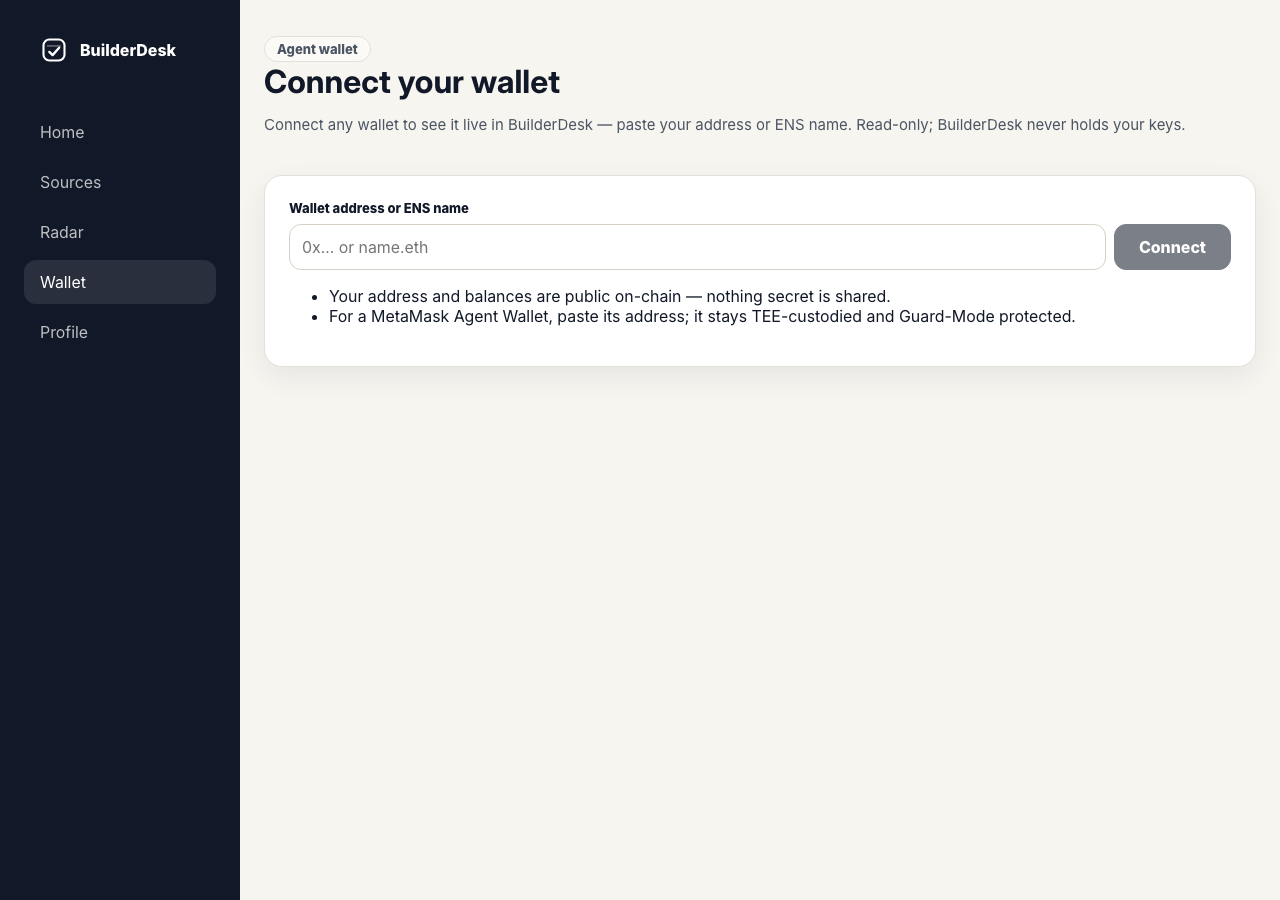
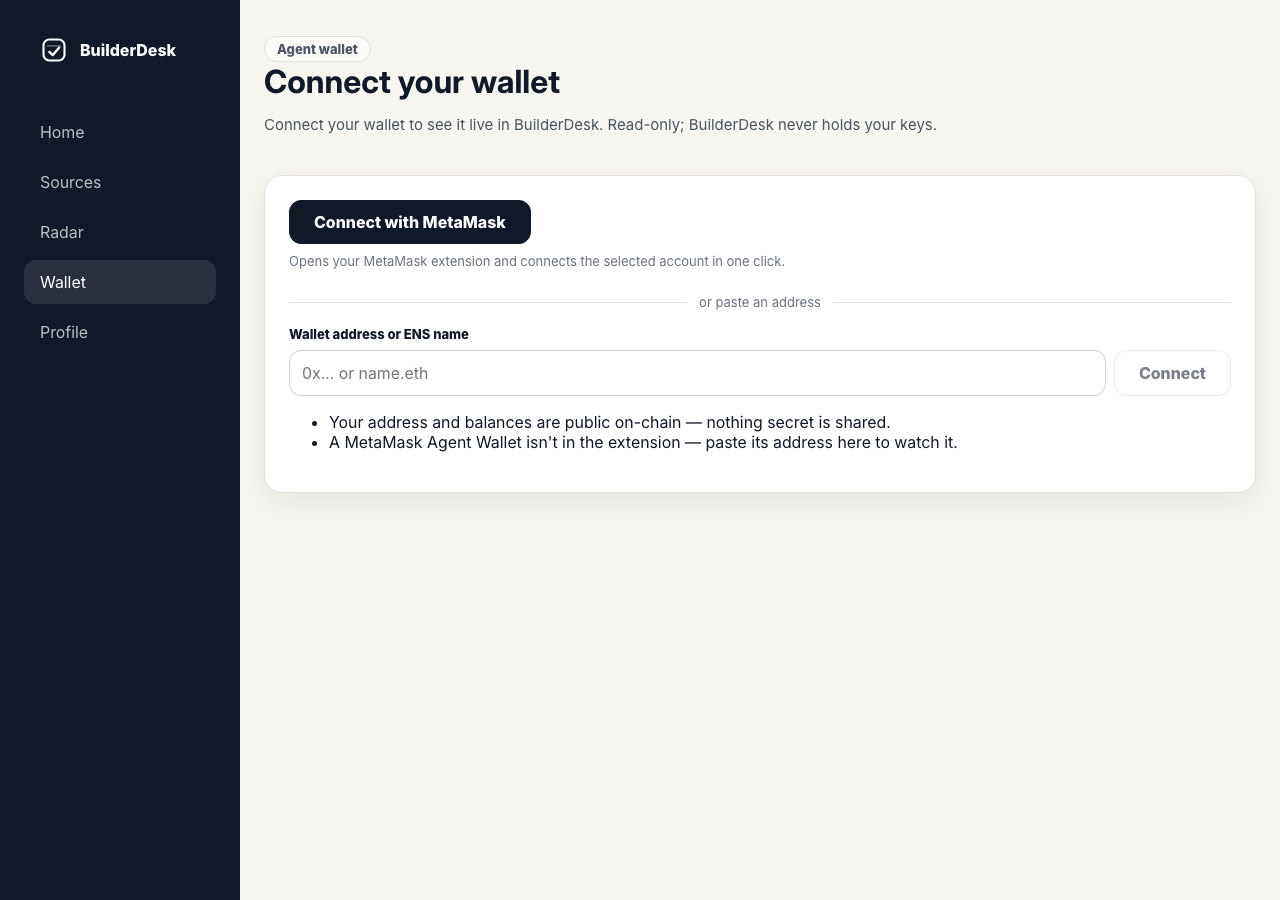
Add 'Connect with MetaMask' login to the wallet connect flow
connectInjectedWallet() opens the injected MetaMask provider
(eth_requestAccounts) and returns the selected account; the connect
screen leads with a one-click "Connect with MetaMask" button and keeps
address/ENS paste as the fallback (mobile / no-extension / watching an
agent wallet that isn't in the extension). Connected wallet persists in
local state, so it's remembered across sessions -- no re-pasting.

Verified: build, lint, test; connecting the funded agent wallet shows
0.05 ETH live on Sepolia in the dashboard.

diff --git a/src/screens/Wallet.tsx b/src/screens/Wallet.tsx
@@ -1,5 +1,5 @@
 import { useEffect, useState } from 'react'
-import { AGENT_WALLET_INFO, defaultWalletAddress, fetchWalletOverview, formatEth } from '../domain/wallet'
+import { AGENT_WALLET_INFO, connectInjectedWallet, defaultWalletAddress, fetchWalletOverview, formatEth } from '../domain/wallet'
 import type { WalletOverview } from '../domain/wallet'
 import { resolveEns } from '../domain/ens'
 import { useAppState } from '../store'
@@ -18,7 +18,21 @@ function ConnectWallet({ setState }: { setState: Store['setState'] }) {
   const [connecting, setConnecting] = useState(false)
   const [error, setError] = useState<string | null>(null)
 
-  async function connect() {
+  async function connectMetaMask() {
+    setConnecting(true)
+    setError(null)
+    const result = await connectInjectedWallet()
+    if (result.error || !result.address) {
+      setError(result.error ?? 'Could not connect.')
+      setConnecting(false)
+      return
+    }
+    const ens = await resolveEns(result.address)
+    setConnecting(false)
+    setState((current) => ({ ...current, wallet: { address: result.address as string, ensName: ens.ensName } }))
+  }
+
+  async function connectByInput() {
     setConnecting(true)
     setError(null)
     const result = await resolveEns(input)
@@ -27,21 +41,25 @@ function ConnectWallet({ setState }: { setState: Store['setState'] }) {
       setError(result.note)
       return
     }
-    const connected = { address: result.address, ensName: result.ensName }
-    setState((current) => ({ ...current, wallet: connected }))
+    setState((current) => ({ ...current, wallet: { address: result.address as string, ensName: result.ensName } }))
   }
 
   return (
     <>
       <PageHeader eyebrow="Agent wallet" title="Connect your wallet">
-        <p>Connect any wallet to see it live in BuilderDesk — paste your address or ENS name. Read-only; BuilderDesk never holds your keys.</p>
+        <p>Connect your wallet to see it live in BuilderDesk. Read-only; BuilderDesk never holds your keys.</p>
       </PageHeader>
       <Panel className="panel-pad">
+        <Button variant="primary" onClick={connectMetaMask} disabled={connecting}>{connecting ? 'Connecting…' : 'Connect with MetaMask'}</Button>
+        <p className="row-meta" style={{ marginTop: 8 }}>Opens your MetaMask extension and connects the selected account in one click.</p>
+
+        <div className="connect-divider">or paste an address</div>
+
         <div className="field">
           <label>Wallet address or ENS name</label>
           <div className="inline-field">
             <input className="input" value={input} onChange={(event) => setInput(event.target.value)} placeholder="0x… or name.eth" />
-            <Button variant="primary" onClick={connect} disabled={connecting || !input.trim()}>{connecting ? 'Connecting…' : 'Connect'}</Button>
+            <Button onClick={connectByInput} disabled={connecting || !input.trim()}>Connect</Button>
           </div>
           {error && (
             <div className="identity-result">
@@ -52,7 +70,7 @@ function ConnectWallet({ setState }: { setState: Store['setState'] }) {
         </div>
         <ul style={{ marginTop: 16 }}>
           <li>Your address and balances are public on-chain — nothing secret is shared.</li>
-          <li>For a MetaMask Agent Wallet, paste its address; it stays TEE-custodied and Guard-Mode protected.</li>
+          <li>A MetaMask Agent Wallet isn't in the extension — paste its address here to watch it.</li>
         </ul>
       </Panel>
     </>

diff --git a/src/domain/wallet.ts b/src/domain/wallet.ts
@@ -21,6 +21,28 @@ export function defaultWalletAddress(): string | undefined {
   return (import.meta.env.VITE_AGENT_WALLET_ADDRESS as string | undefined) || undefined
 }
 
+type Eip1193Provider = {
+  request: (args: { method: string; params?: unknown[] }) => Promise<unknown>
+}
+
+// "Connect with MetaMask": opens the injected wallet and returns the selected
+// account. One click, no pasting. Browser-extension only — callers fall back to
+// the address/ENS field when there's no injected provider.
+export async function connectInjectedWallet(): Promise<{ address?: string; error?: string }> {
+  const injected = (window as unknown as { ethereum?: Eip1193Provider }).ethereum
+  if (!injected) {
+    return { error: 'No browser wallet detected. Install the MetaMask extension, or paste an address below.' }
+  }
+  try {
+    const accounts = (await injected.request({ method: 'eth_requestAccounts' })) as string[]
+    const address = accounts?.[0]
+    if (!address) return { error: 'MetaMask returned no account.' }
+    return { address }
+  } catch {
+    return { error: 'Connection request was rejected in MetaMask.' }
+  }
+}
+
 type Network = { key: string; label: string; chain: Parameters<typeof createPublicClient>[0]['chain']; rpc: string; explorer: string; testnet: boolean }
 
 const NETWORKS: Network[] = [

diff --git a/src/styles/wallet.css b/src/styles/wallet.css
@@ -14,3 +14,20 @@
   font-size: var(--small-size);
   word-break: break-all;
 }
+
+.connect-divider {
+  display: flex;
+  align-items: center;
+  gap: var(--space3);
+  margin: var(--space5) 0 var(--space4);
+  color: var(--ink-muted);
+  font-size: var(--small-size);
+}
+
+.connect-divider::before,
+.connect-divider::after {
+  content: "";
+  flex: 1;
+  height: 1px;
+  background: var(--line);
+}
